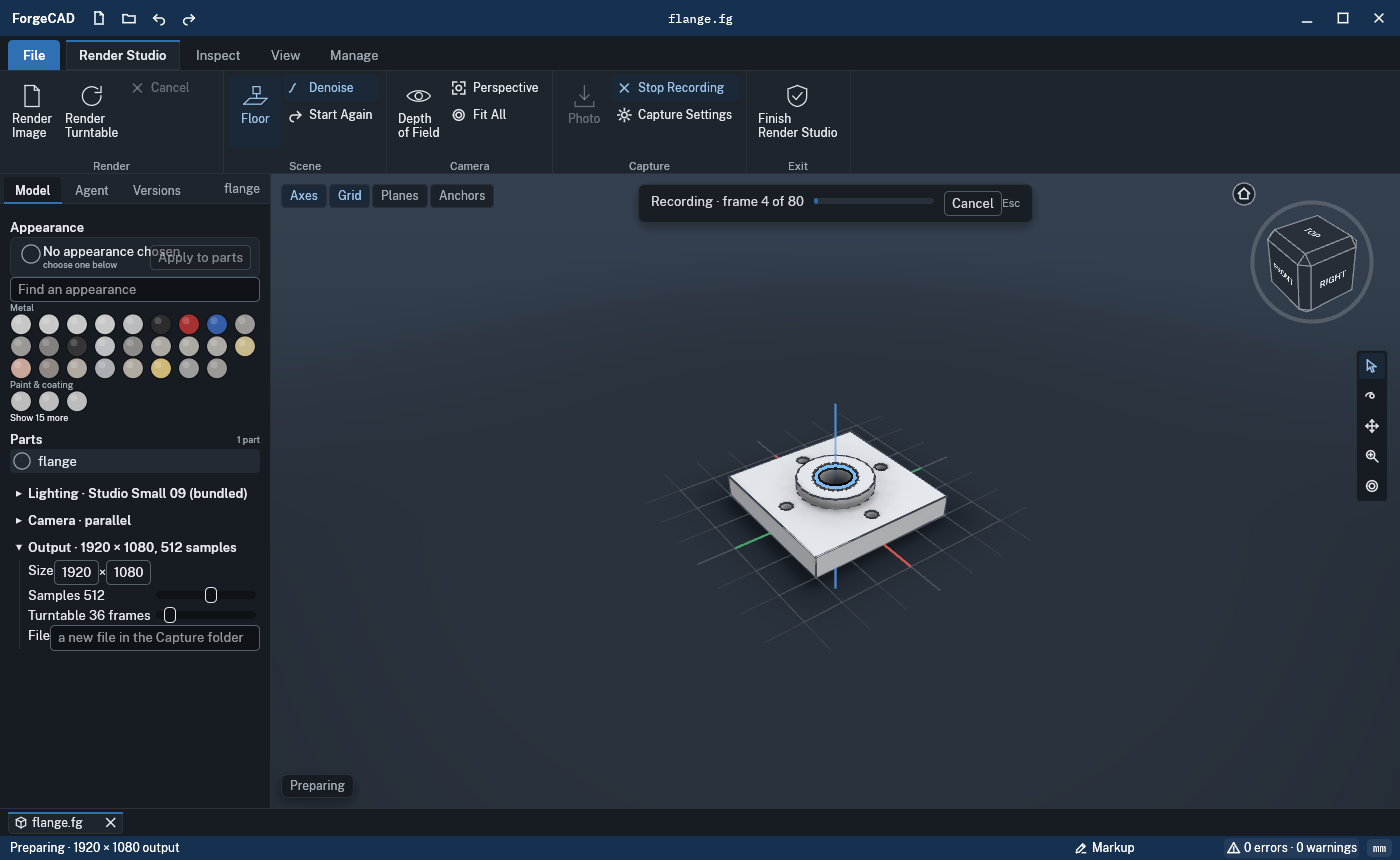
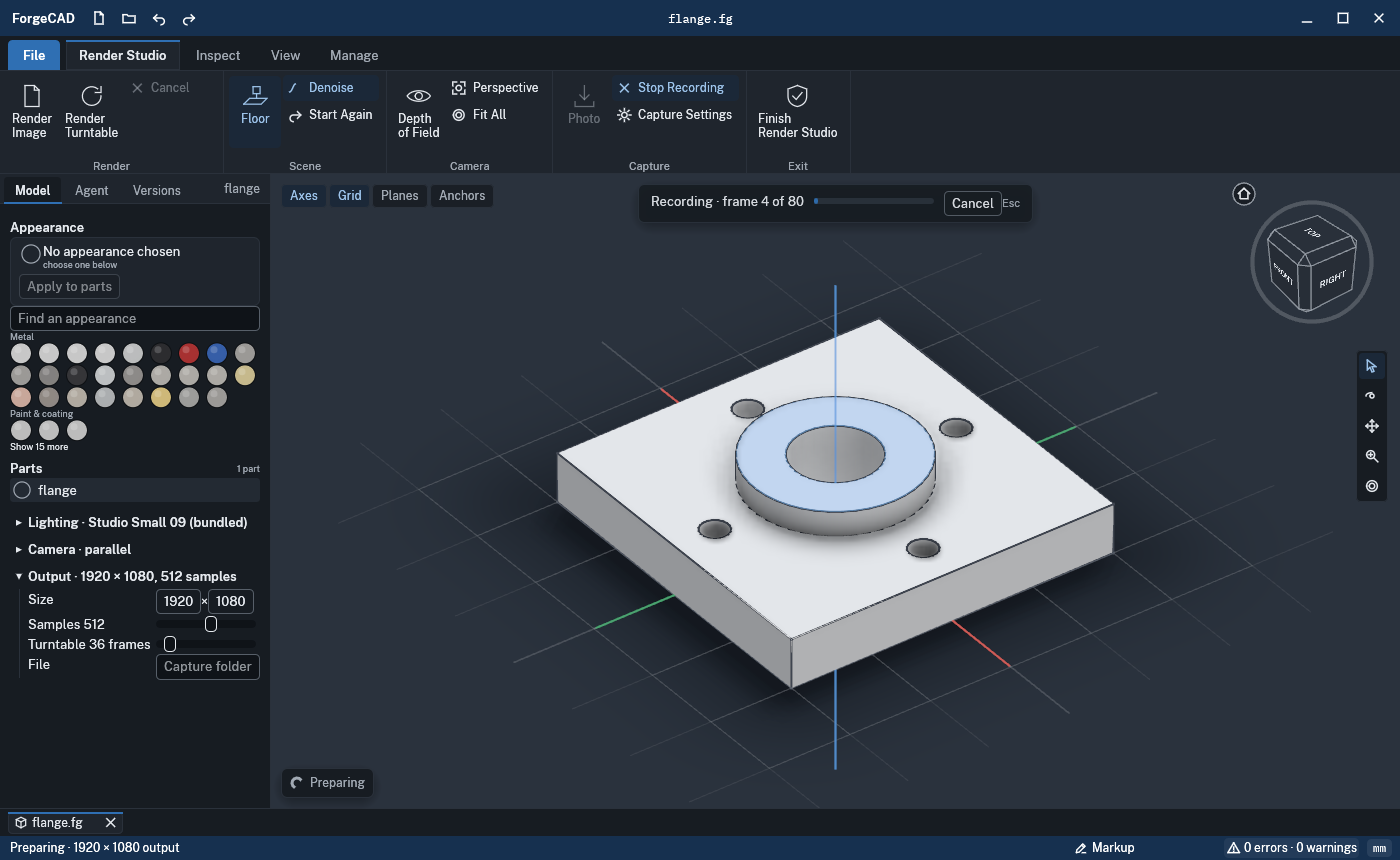
Render Studio: UX-LEAD's review of the 11-13 shots
- P2: the Appearance card's words no longer run under Apply to parts: they wrap
  beside it, or in a narrow panel (under 300 px) the button goes below them;
  the card fills the panel's width.
- P3: Preparing and Starting again have ux::loading's spinner, as Tracing does.
- P3: the badge's hover says whose limit it is: "The live view refines until N
  samples; edits restart it. A render uses Output's samples."
- P3: Output's Size and File, and Lighting's File, take the label column
  Samples and Turntable have; the File field fills the rest, its hint
  "Capture folder" (what a new file is, on hover).
- P3, §2: entering the Studio frames the subject (Fit All): the flange from
  about 20% of the view's height to about 65%.

research/render/studio/11-13 taken again.

Claude-Session: https://claude.ai/code/session_01WJtawz369LCQvS1hpKDMaJ

diff --git a/interface/forge-render/src/shell/studio_env.rs b/interface/forge-render/src/shell/studio_env.rs
@@ -379,9 +379,8 @@ pub(super) fn browser(s: &mut Shell, ui: &mut Ui, r: Rect) -> bool {
                             "Poly Haven HDRIs, CC0; all but the bundled one come from tools/fetch-hdri.sh",
                         );
                     if st.light == lights.len() - 1 {
-                        ui.horizontal(|ui| {
-                            ui.label("File");
-                            ui.text_edit_singleline(&mut st.hdri)
+                        row(ui, "File".into(), |ui| {
+                            ui.add(egui::TextEdit::singleline(&mut st.hdri).desired_width(f32::INFINITY))
                                 .on_hover_text("a Radiance .hdr, equirectangular");
                         });
                     }
@@ -436,8 +435,7 @@ pub(super) fn browser(s: &mut Shell, ui: &mut Ui, r: Rect) -> bool {
 
             let out = format!("Output · {} × {}, {} samples", st.size.0, st.size.1, st.spp);
             let head = fold(ui, s, "studio-fold-output", &out, |ui| {
-                ui.horizontal(|ui| {
-                    ui.label("Size");
+                row(ui, "Size".into(), |ui| {
                     ui.add(egui::DragValue::new(&mut st.size.0).range(16..=8192));
                     ui.label("×");
                     ui.add(egui::DragValue::new(&mut st.size.1).range(16..=8192));
@@ -452,14 +450,15 @@ pub(super) fn browser(s: &mut Shell, ui: &mut Ui, r: Rect) -> bool {
                 row(ui, format!("Turntable {} frames", st.frames), |ui| {
                     ui.add(egui::Slider::new(&mut st.frames, 4..=360).show_value(false));
                 });
-                ui.horizontal(|ui| {
-                    ui.label("File");
+                row(ui, "File".into(), |ui| {
                     ui.add(
-                        egui::TextEdit::singleline(&mut st.out).hint_text("a new file in the Capture folder"),
+                        egui::TextEdit::singleline(&mut st.out)
+                            .hint_text("Capture folder")
+                            .desired_width(f32::INFINITY),
                     )
                     .on_hover_text(
-                        "Empty: <document>-render-<time>.png in the Capture settings' folder (else the \
-                         document's). A name alone goes there too.",
+                        "Empty: a new file, <document>-render-<time>.png, in the Capture settings' folder \
+                         (else the document's). A name alone goes there too.",
                     );
                 });
             });
@@ -641,7 +640,9 @@ pub(super) fn draw(s: &mut Shell, ui: &mut Ui, view: Rect) -> bool {
     let t = s.theme;
     let st = &s.studio;
     let text = live_words(st);
-    let busy = refining(st);
+    // a working state (preparing, starting again, refining) has the spinner
+    let busy = refining(st) || (st.samples < READABLE && st.rendering.is_none());
+    let refines = refining(st);
     // its own layer over the view, so the pointer reaches it (the view's takes it otherwise)
     let target = st.target;
     egui::Area::new(egui::Id::unique("studio-live-badge"))
@@ -660,14 +661,19 @@ pub(super) fn draw(s: &mut Shell, ui: &mut Ui, view: Rect) -> bool {
                     }
                 })
                 .response;
-            if busy {
+            if refines {
                 // (a frame's own response doesn't sense the pointer)
                 ui.interact(
                     r.rect,
                     egui::Id::unique("studio-live-badge-hover"),
                     egui::Sense::hover(),
                 )
-                .on_hover_text(format!("Refines until {target} samples; edits restart it"));
+                .on_hover_text(format!(
+                    "The live view refines until {target} samples; edits restart it. A \
+                         render uses Output's samples."
+                ));
+            }
+            if busy {
                 ui.ctx().request_repaint();
             }
         });

diff --git a/interface/forge-render/src/shell/studio_model.rs b/interface/forge-render/src/shell/studio_model.rs
@@ -304,36 +304,49 @@ pub(super) fn ui(ui: &mut Ui, s: &Shell, st: &mut StudioUi, lib: &Appearances) {
         .stroke(Stroke::new(1.0, t.line))
         .corner_radius(6.0)
         .inner_margin(vec2(8.0, 6.0));
+    // the words wrap beside the button, or (a narrow panel) the button goes below them
+    let narrow = ui.available_width() < 300.0;
     frame.show(ui, |ui| {
+        ui.set_width(ui.available_width());
+        let name = brush.map_or("No appearance chosen", |a| a.name.as_str());
+        let hint = if st.painting {
+            "click parts in the view · Esc stops"
+        } else if brush.is_some() {
+            "Apply to parts, then click them in the view"
+        } else {
+            "choose one below"
+        };
+        let words = |ui: &mut Ui| {
+            ui.vertical(|ui| {
+                ui.add(egui::Label::new(RichText::new(name).color(t.ink)).wrap());
+                ui.add(egui::Label::new(RichText::new(hint).small().color(t.ink2)).wrap());
+            });
+        };
+        let mut button = |ui: &mut Ui| {
+            let r = ui.add_enabled(
+                brush.is_some(),
+                egui::Button::new("Apply to parts").selected(st.painting),
+            );
+            if r.clicked() {
+                st.painting = !st.painting;
+            }
+        };
         ui.horizontal(|ui| {
             let (r, _) = ui.allocate_exact_size(vec2(CHIP + 8.0, CHIP + 4.0), Sense::hover());
             chip(ui, r.center(), CHIP / 2.0 + 1.0, brush, t.ink2);
-            ui.vertical(|ui| {
-                ui.label(
-                    RichText::new(brush.map_or("No appearance chosen", |a| a.name.as_str())).color(t.ink),
-                );
-                ui.label(
-                    RichText::new(if st.painting {
-                        "click parts in the view · Esc stops"
-                    } else if brush.is_some() {
-                        "Apply to parts, then click them in the view"
-                    } else {
-                        "choose one below"
-                    })
-                    .small()
-                    .color(t.ink2),
-                );
-            });
-            ui.with_layout(egui::Layout::right_to_left(egui::Align::Center), |ui| {
-                let r = ui.add_enabled(
-                    brush.is_some(),
-                    egui::Button::new("Apply to parts").selected(st.painting),
-                );
-                if r.clicked() {
-                    st.painting = !st.painting;
-                }
-            });
+            if narrow {
+                words(ui);
+            } else {
+                ui.with_layout(egui::Layout::right_to_left(egui::Align::Center), |ui| {
+                    button(ui);
+                    ui.with_layout(egui::Layout::left_to_right(egui::Align::Center), words);
+                });
+            }
         });
+        if narrow {
+            ui.add_space(4.0);
+            button(ui);
+        }
     });
     let mut pick = None;
     palette_ui(ui, s, st, lib, &mut pick);

diff --git a/interface/forge-render/src/gui_studio.rs b/interface/forge-render/src/gui_studio.rs
@@ -169,6 +169,9 @@ impl Gui {
         };
         let size = v.size;
         if self.studio.is_none() {
+            // entering: the subject framed for a picture (Fit All), not left as the modelling
+            // view had it
+            v.nav.fit_all(&v.scene);
             let live = Live::new(&self.device, &self.queue, size);
             let tex = self.egui.register_native_texture(
                 &self.device,

diff --git a/research/render/studio/README.md b/research/render/studio/README.md
@@ -31,9 +31,11 @@ alone (render.png) goes beside the document.
 - 11: the live view between its denoise steps. It traces a band of rows a frame and shows the
   picture at 8, 16, 32, 64 samples then every 64, so on a slow GPU the picture sits still a while.
   The badge says it's still refining ("Tracing · N samples", the count traced, with a spinner;
-  hover: "Refines until N samples; edits restart it") and goes back to "N samples · denoised" when
-  done.
-- 12: Output open, the File field empty with its hint "a new file in the Capture folder": a render
+  hover: "The live view refines until N samples; edits restart it. A render uses Output's
+  samples.") and goes back to "N samples · denoised" when done; "Preparing" and "Starting again…"
+  have the spinner too. Entering the Studio frames the subject (Fit All).
+- 12: Output open, its labels in one column, the File field empty with its hint "Capture folder"
+  (hover: a new file, `<document>-render-<time>.png`, there; a name alone goes there too): a render
   goes there as `<document>-render-<time>.png` (the document's folder if Capture has none), and the
   status says "Wrote PATH".
 - 13: a recording under way: its pill with Cancel and "Esc" beside it (Cancel discards a video;
